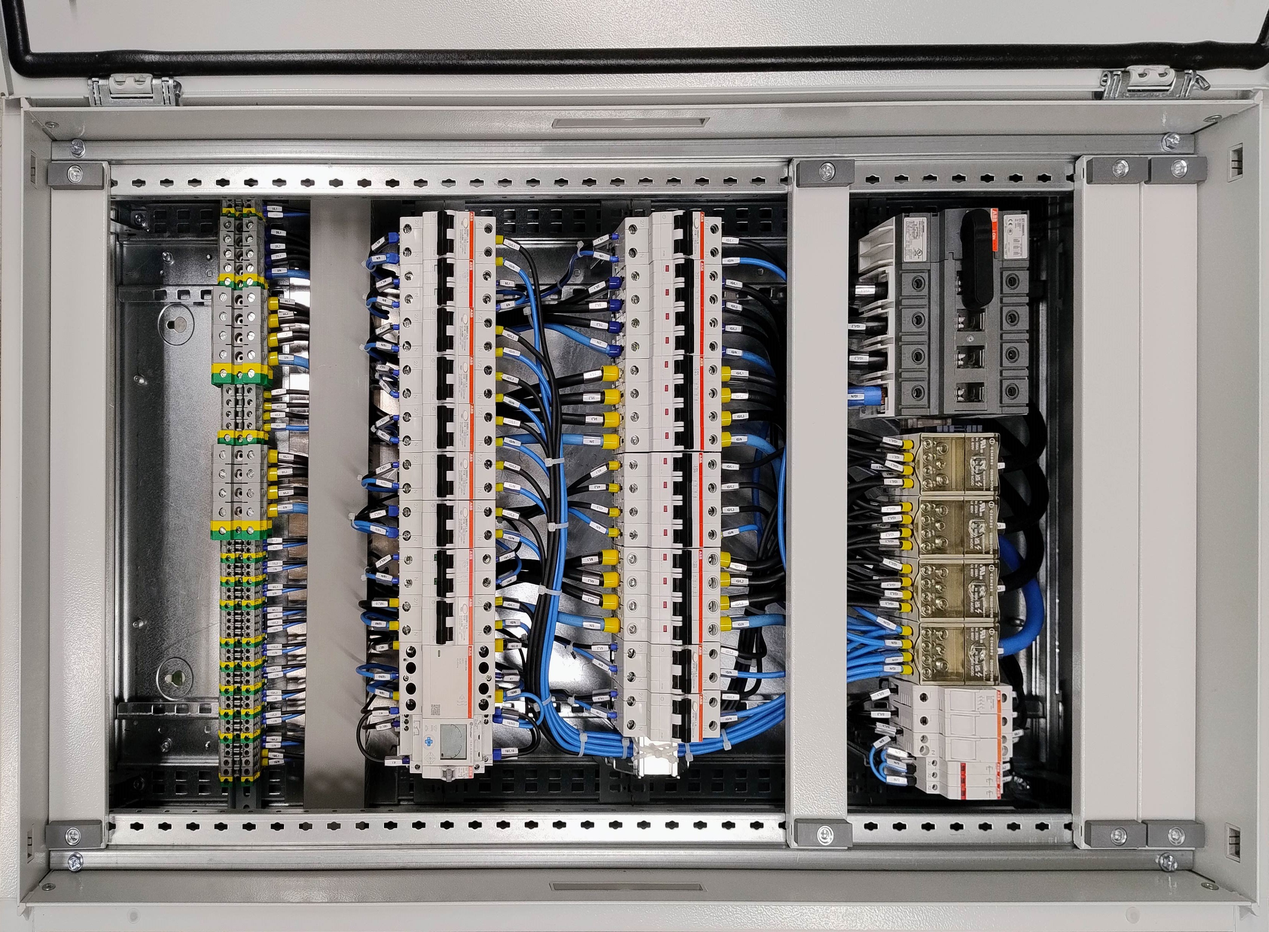
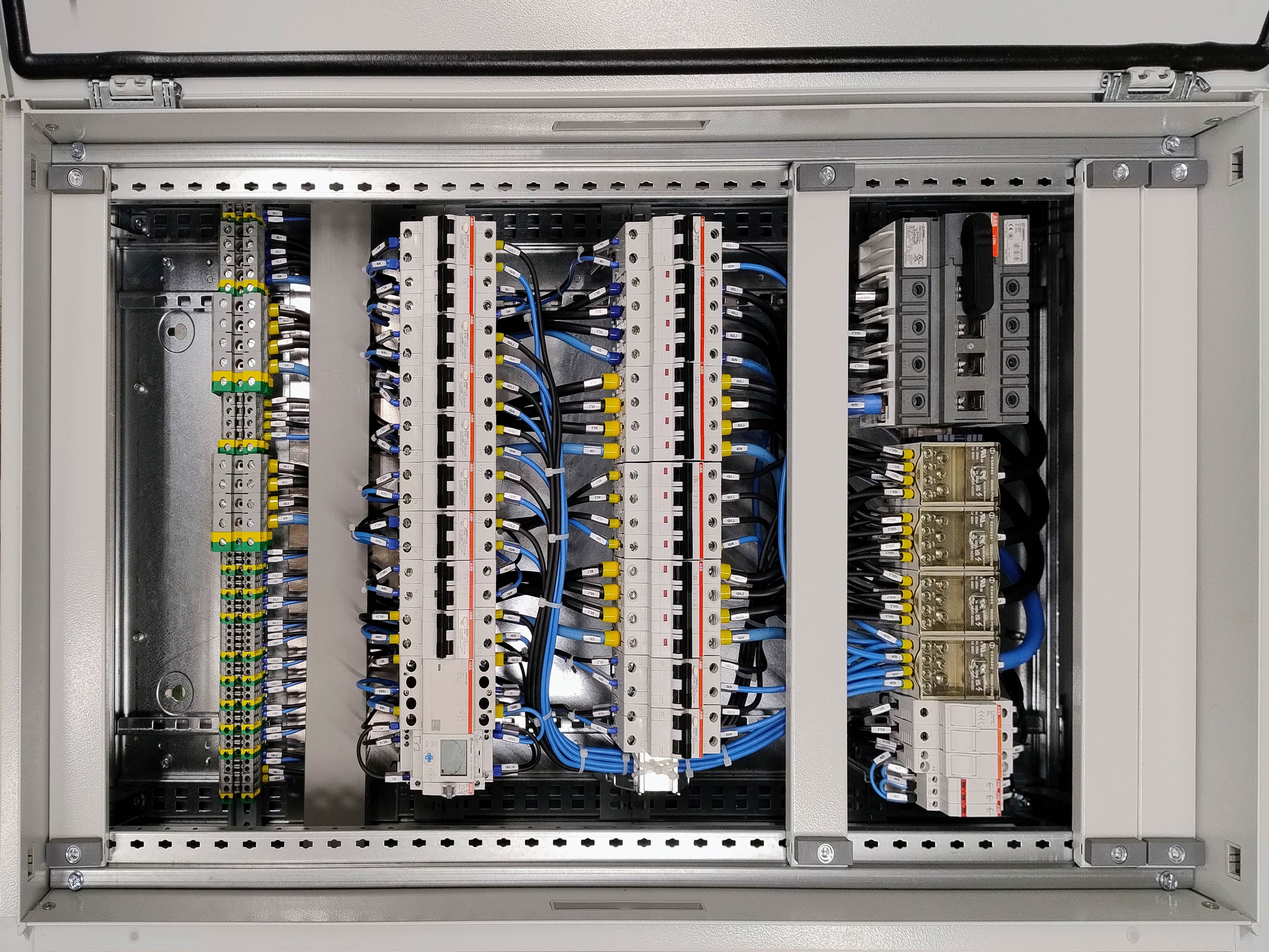
fix foto

diff --git a/index.html b/index.html
@@ -43,16 +43,16 @@
     <div class="mt-24">
         <div class="slideshow-container">
             <div class="slides">
-                <div class="slide" style="background-image: url('./assets/images/1.jpg');"></div>
-                <div class="slide" style="background-image: url('./assets/images/2.jpg');"></div>
-                <div class="slide" style="background-image: url('./assets/images/3.jpg');"></div>
-                <div class="slide" style="background-image: url('./assets/images/4.jpg');"></div>
-                <div class="slide" style="background-image: url('./assets/images/5.jpg');"></div>
-                <div class="slide" style="background-image: url('./assets/images/6.jpg');"></div>
-                <div class="slide" style="background-image: url('./assets/images/7.jpg');"></div>
-                <div class="slide" style="background-image: url('./assets/images/8.jpg');"></div>
-                <div class="slide" style="background-image: url('./assets/images/9.jpg');"></div>
-                <div class="slide" style="background-image: url('./assets/images/10.jpg');"></div>
+                <img class="slide" src="./assets/images/1crop.jpg"></img>
+                <img class="slide" src="./assets/images/2.jpg"></img>
+                <img class="slide" src="./assets/images/3.jpg"></img>
+                <img class="slide" src="./assets/images/4.jpg"></img>
+                <img class="slide" src="./assets/images/5.jpg"></img>
+                <img class="slide" src="./assets/images/6.jpg"></img>
+                <img class="slide" src="./assets/images/7.jpg"></img>
+                <img class="slide" src="./assets/images/8.jpg"></img>
+                <img class="slide" src="./assets/images/9.jpg"></img>
+                <img class="slide" src="./assets/images/10.jpg"></img>
             </div>
             <div class="arrow left">&#10094;</div>
             <div class="arrow right">&#10095;</div>

diff --git a/assets/styles.css b/assets/styles.css
@@ -32,7 +32,7 @@ body {
 .slideshow-container {
     position: relative;
     max-width: 100%;
-    height: 700px;
+    height: 100%;
     margin: auto;
     overflow: hidden;
 }
@@ -40,11 +40,12 @@ body {
 .slides {
     display: flex;
     transition: transform 1s ease-in-out;
+    height: 100%;
 }
 
 .slide {
     min-width: 100%;
-    height: 700px;
+    object-fit: contain;
     background-size: cover;
     background-position: center;
 }
